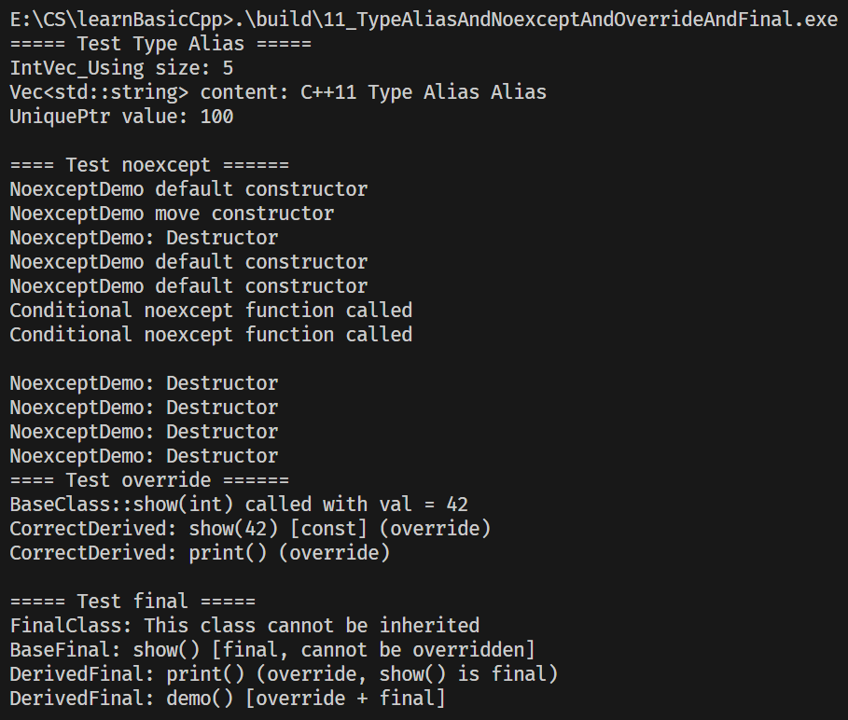
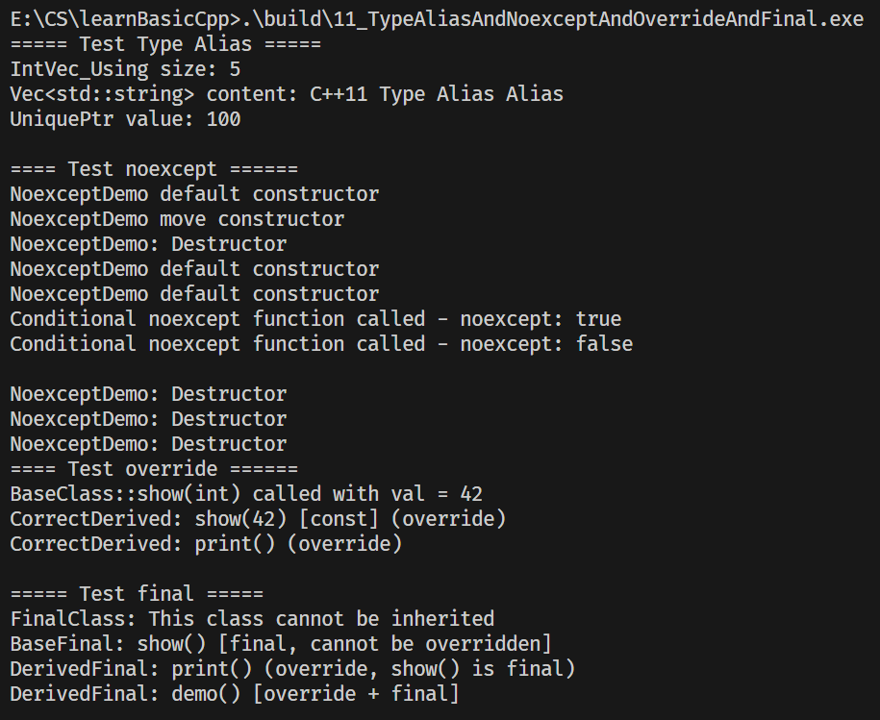
[modify]11_TypeAliasAndNoexceptAndOverrideAndFinal

diff --git a/Cpp_11_14_Houjie/11_TypeAliasAndNoexceptAndOverrideAndFinal/main.cpp b/Cpp_11_14_Houjie/11_TypeAliasAndNoexceptAndOverrideAndFinal/main.cpp
@@ -128,7 +128,8 @@ public:
     template <typename T>
     void conditional_noexcept(T &&val) noexcept(std::is_trivially_copyable<T>::value)
     {
-        std::cout << "Conditional noexcept function called" << std::endl;
+        bool is_noexcept = std::is_trivially_copyable<T>::value;
+        std::cout << "Conditional noexcept function called - noexcept: " << std::boolalpha << is_noexcept << std::endl;
     }
 };
 
